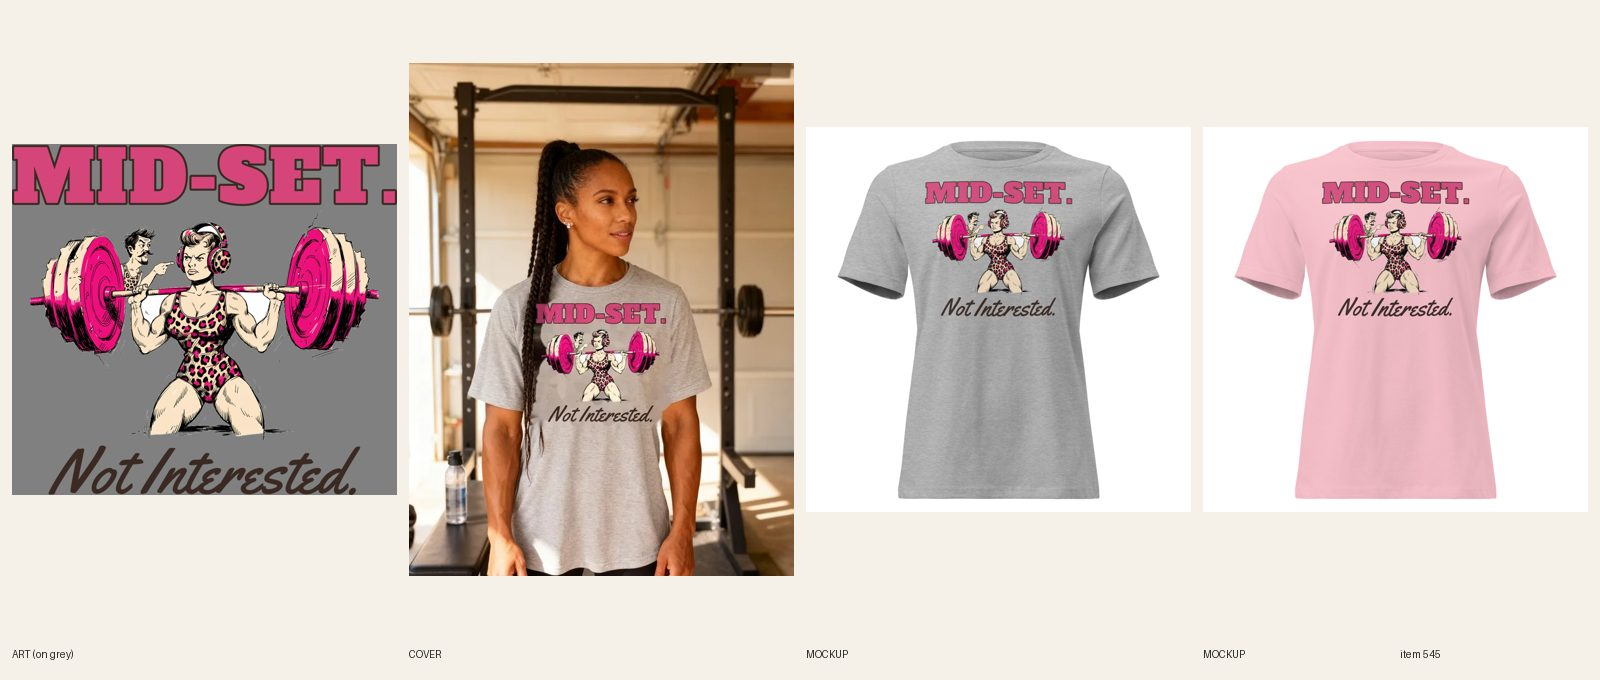
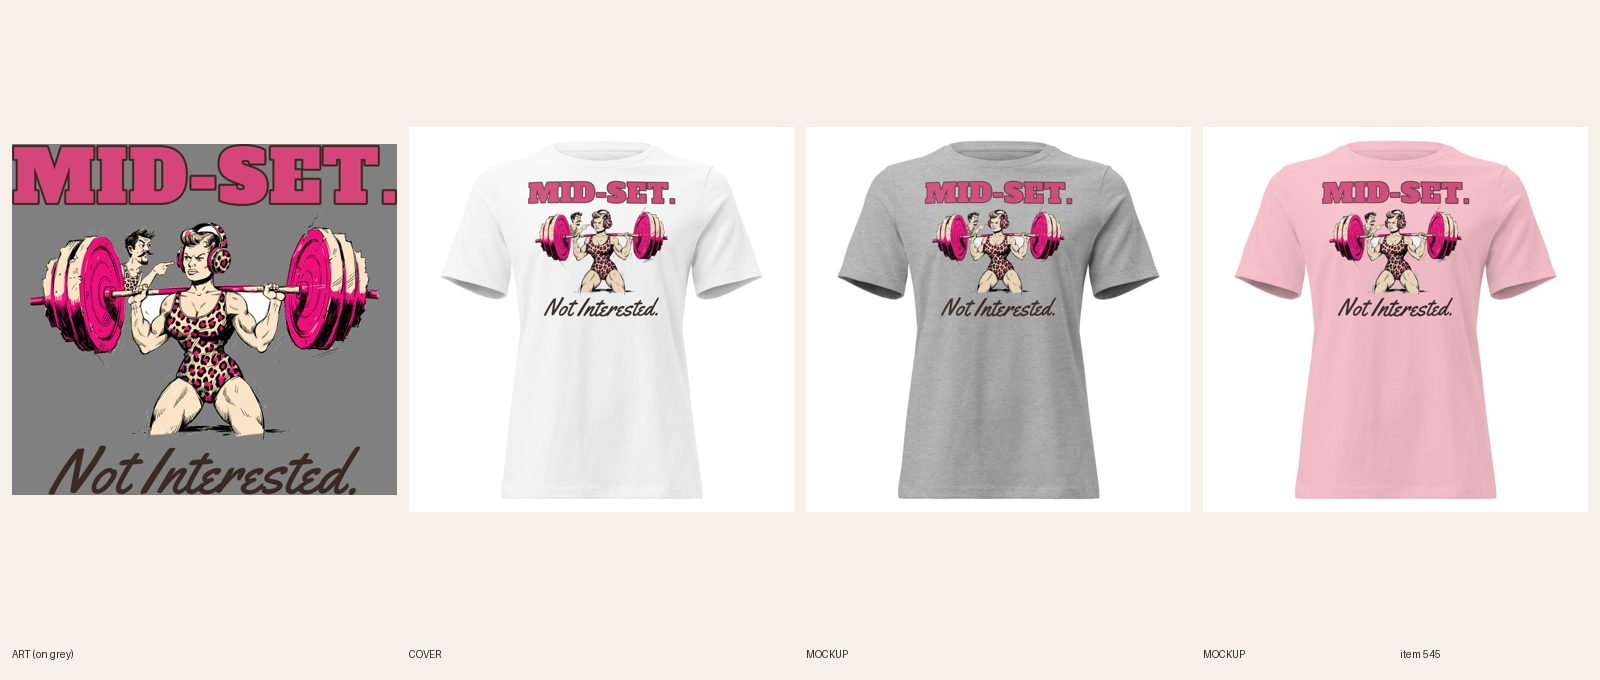
[B] review 545 Mid-Set tee (redo closed, flat cover)

Changed region(s): [[0.25, 0.0926, 0.5, 0.8647]]

diff --git a/docs/pipeline/545-gym-tee-mid-set-not-interested.md b/docs/pipeline/545-gym-tee-mid-set-not-interested.md
@@ -1,4 +1,4 @@
-status: REDO
+status: REVIEW
 lane: B
 type: new
 id: 545
@@ -32,3 +32,4 @@ kd: 14
 - 2026-10-18 03:40 UTC builder [B]: full build. Art: 1 Recraft call, kept (1950s strongwoman in a leopard leotard and retro headphones, pink barbell across her shoulders, side-eyeing a small mustached man pointing a finger). MID-SET. (Alfa Slab One hot pink #d6457a, dark keyline, wider than the art) above and Not Interested. (Yellowtail dark brown, about 80% of the art width) below via compose-print. One dark-ink file for 6 light colors on the 6400 women's relaxed tee: White, Natural, Heather Stone, Athletic Heather, Pink, Leaf (bold women's colors Pink and Leaf; the hot-pink art is lower contrast on Pink but readable with the dark linework; no Black light-ink file this round). Print 11.3 x 10.3 in, FW 1650 TOP 75. DRAFT gid 15364536402224, category aa-1-13-8, 36 variants (6 x S-3XL) $24.99, compareAtPrice null, tags per brief, keyword workout shirts for women 3,600/KD14 in line one and meta, "lifting shirt women" once in an FAQ, FAQ 6 x 40-60 words incl. Dec 8. Printful file 1088655379, sync 36/36. Mockups for all 6 colors + back attached and linked. Cover: registry 885, 1 fal photo (Athletic Heather); the braided ponytail hung beside the M of MID-SET, so per 9b the exact print is composited onto the chest with the braids kept on top and clear of every letter; a faint lighter haze from the inpaint remains around the print; alt starts "Woman". Audit-local PASS, astro build OK. fal $0.10.
 - 2026-10-18 04:20 UTC director: REDO (cover + one copy line). 1) R6.9 hair rule: her braid lies over the left barbell plate and runs beside the M of MID-SET.; repaint the braid behind her shoulder or re-composite the print from the Athletic Heather mockup (composite first, not regenerate). 2) R6.8: a lighter grey rectangle shows around the whole print on the cover (composite patch); blend it so the shirt is one even color. 3) R8.3: line one 'The workout shirts for women who lift get no sassier than this' reads as keyword plus superlative; rewrite, e.g. 'Workout shirts for women rarely say it this plainly: MID-SET. Not Interested.'
 - 2026-10-18 11:04 UTC builder [B]: REDO item 3 done (line one rewritten in Shopify: 'Workout shirts for women rarely say it this plainly: MID-SET. Not Interested.'). Items 1-2 (cover) not done: 3 local erase/composite attempts on the committed cover leave a visible box because the photo's chest already holds the old patch; needs a fresh fal photo (--n 1, composite per R6.9) after the 00:00 UTC cap reset. Stays REDO. fal $0.
+- 2026-10-20 09:05 UTC builder [B]: REDO closed. Item 3 (line one) was done 2026-10-18. Items 1-2 (hair beside the M, grey box) were the old composite cover, now retired: it sits in src/data/retired-covers.json and the product shows the clean Printful flat shot (R6.11, no fal, no Printful model cover). Synced 36/36 (sync 482672554). Remade docs/review/545.jpg with the flat cover. Audit --handle can't see a DRAFT from here. fal $0.

diff --git a/docs/intake-log.md b/docs/intake-log.md
@@ -1,4 +1,5 @@
 RUNNING lane B since 2026-10-20 09:02 UTC
+2026-10-20 09:05 UTC — [B] Builder run: #545 Women's Gym Mid-Set. Not Interested. tee to REVIEW (cover retired to flat shot, line one already fixed, 36/36 synced, new review sheet). fal $0.
 2026-10-20 08:53 UTC — [E] Builder run (second session): 16 REDOs to REVIEW (366 388 438 451 466 472 486 536 537 576 608 610 611 613 628 631 652 = 17 items counting 576); no more REDO left in lane E; new READY items need the R5.2 favorites proof that this environment cannot fetch (707 claim released). Note: a concurrent lane E session collided with me on #576 (resolved, #576 is consistent on Printful and Shopify). fal about $0.40 this run.
 2026-10-20 08:47 UTC — [D] Director run: inbox nothing new. 6 LIVE (cap): #443 #552 #554 #561 #635 #382, audit PASS (#554 #561 SEO titles added). Reviewed 16: 12 approved and held (#387 #389 retitled), 4 REDO (#397 stock line, #507 geyser still a rectangle, #509 shield scene, #610 stock Etsy line). Builder card 7j (no more SORRY/BOOKED lines). READY: A 13, B 12, C 12, E 12. No Telegram (digest not due, nothing for Sam). Lock released.
 2026-10-20 08:52 UTC — [E] Builder run: redid #537 Women's Gym pump cover (line + type: DELICATE FLOWER. / 315 LB DEADLIFT., same bow-deadlifter art, Alfa Slab One, washed black ground, 10/10 synced). REVIEW. fal $0.
